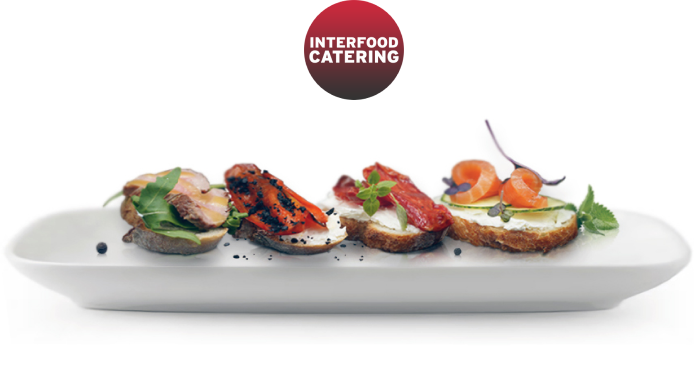
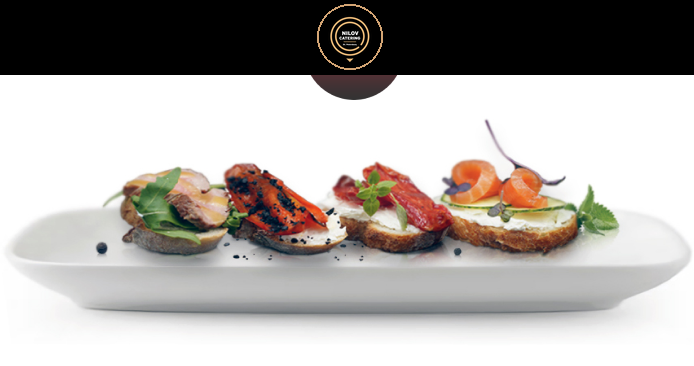
fix(c69-w1): фиксы волны критиков №1
- gg-showcase: удалён TiltedAccent «видео»; H2 color #fff инлайн (unlayered
  .ea-section-h2 перебивал text-white — тёмный на тёмном); alt перебрендирован
- founder-story: 4× Interfood → nilov catering (текст глав, alt, подпись)
- tott-parallax-band: «nilov catering · с 2007 года»
- faq/cep-process: «в рабочее время» → «отвечаем в любое время»
- tott-hero: коллизия ЛИСТАЙТЕ/eyebrow (bottom-12, translateY 40px),
  food-as-art marginTop 0.25rem (мобайл)
- cookie-banner: truncate убран (текст переносится на 390px)
- event-01.png: старый красный лого → новый бейдж с золотым кольцом

Changed region(s): [[0.0, 0.0, 1.0, 0.2104]]

diff --git a/src/components/catering/gg-video-showcase.tsx b/src/components/catering/gg-video-showcase.tsx
@@ -3,7 +3,6 @@
 import { useRef, useState } from "react";
 import { motion, useReducedMotion } from "framer-motion";
 import { useMounted } from "@/hooks/use-mounted";
-import { TiltedAccent } from "@/components/catering/tilted-accent";
 
 /**
  * GgVideoShowcase — Cycle 31, Task 4-C.
@@ -31,8 +30,8 @@ import { TiltedAccent } from "@/components/catering/tilted-accent";
  *      ├─ video.absolute.inset-0.h-full.w-full.object-cover (decorative, aria-hidden)
  *      ├─ div.absolute.inset-0 double scrim (radial pool behind the text
  *      │   column + linear to-top base — Task 4-B readability hardening)
- *      ├─ div.absolute.inset-0.flex (overlay content — bottom-left aligned, padded)
- *      │  ├─ TiltedAccent "видео" (-6° tilt, gamma signature)
+ *      ├─ div.absolute.inset-0.flex (overlay content — bottom-left aligned,
+ *      │  padded — W1-FIX: tilted accent "видео" removed)
  *      │  ├─ h2 "Кейтеринг как <i>искусство</i>" (Playfair Display, white, italic fragment red)
  *      │  ├─ p subtitle (white/85, max-w-2xl)
  *      │  └─ div flex gap-4 — 2 CTA pills ("Смотреть меню" → #menu, "Рассчитать стоимость" → #calculator)
@@ -129,7 +128,7 @@ export function GgVideoShowcase() {
         {!expanded && (
           <img
             src="/media/hero-premium/hero-premium-6.jpg"
-            alt="Банкетный зал Interfood: сервированный стол с блюдами высокой кухни"
+            alt="Банкетный зал nilov catering: сервированный стол с блюдами высокой кухни"
             loading="lazy"
             decoding="async"
             className="absolute inset-0 h-full w-full object-cover"
@@ -183,25 +182,21 @@ export function GgVideoShowcase() {
         {/* Editorial overlay — bottom-left aligned with breathing padding.
             z-10 so it sits above the gradient scrim. */}
         <div className="absolute inset-0 z-10 flex flex-col justify-end p-6 md:p-14 lg:p-20">
-          {/* Tilted handwritten accent — gamma signature -6° tilt, sits
-              as a small marginalia above the H2 (Task 4-B: eyebrow removed
-              at the owner's request). Inline drop-shadow keeps the red
-              script legible over the video. */}
-          <div
-            className="mb-6"
-            style={{ filter: "drop-shadow(0 2px 14px rgba(0, 0, 0, 0.45))" }}
-          >
-            <TiltedAccent text="видео" className="block" />
-          </div>
-
           {/* H2 — Playfair Display, white. The word "искусство" is wrapped
               in <i> per the EA signature italic-as-fragment device
               (globals.css `.ea-section-h2 i` colors it `var(--ea-red)`).
-              Task 4-B: text-shadow for contrast in motion. */}
+              Task 4-B: text-shadow for contrast in motion. W1-FIX: the
+              unlayered `.ea-section-h2` rule (color: var(--ea-ink)) beats
+              the layered Tailwind `text-white` utility — an inline
+              `color: "#fff"` (inline beats both) keeps the H2 white over
+              the dark video. */}
           <motion.h2
             {...reveal(0)}
             className="ea-section-h2 mb-8 mt-2 max-w-4xl text-white"
-            style={{ textShadow: "0 2px 24px rgba(0, 0, 0, 0.55)" }}
+            style={{
+              color: "#fff",
+              textShadow: "0 2px 24px rgba(0, 0, 0, 0.55)",
+            }}
           >
             Кейтеринг как <i>искусство</i>
           </motion.h2>

diff --git a/src/components/catering/ea-founder-story.tsx b/src/components/catering/ea-founder-story.tsx
@@ -116,7 +116,7 @@ const CHAPTERS = [
     // на мобиле до него доходили на ~85% прокрутки главы. Имя вплетено в
     // главу-2007 (факт: подпись и alt уже называют Дмитрия Нилова).
     // \u00A0 — имя не рвётся на переносе.
-    text: "Одна печка, три повара и съёмная кухня на Петроградской стороне. Так Дмитрий\u00A0Нилов начинал Interfood.",
+    text: "Одна печка, три повара и съёмная кухня на Петроградской стороне. Так Дмитрий\u00A0Нилов начинал nilov catering.",
   },
   {
     label: "Философия",
@@ -130,7 +130,7 @@ const CHAPTERS = [
     // «Берёмся за всё:» — единственная масс-маркет интонация секции,
     // заменена на сенсорную подачу (B1, факты те же); ведущее «Сегодня»
     // снято — оно уже в лейбле главы.
-    text: "Interfood накрывает стол и на\u00A0камерной свадьбе на\u00A020 гостей, и на приёме на\u00A01\u00A0500 персон — в исторических особняках города.",
+    text: "nilov catering накрывает стол и на\u00A0камерной свадьбе на\u00A020 гостей, и на приёме на\u00A01\u00A0500 персон — в исторических особняках города.",
   },
 ] as const;
 
@@ -444,7 +444,7 @@ export function EaFounderStory() {
                   <div className="efs__portrait-frame">
                     <Image
                       src="/media/c67/founder-portrait-v5.webp"
-                      alt="Дмитрий Нилов, основатель Interfood Catering, в фирменном фартуке на банкетной площадке"
+                      alt="Дмитрий Нилов, основатель nilov catering, в фирменном фартуке на банкетной площадке"
                       fill
                       /* 480px = кап .efs__portrait-pos (≥1280) → DPR2 ровно 960
                          device-px (натив источника); бакет 1080 — ближайший в
@@ -612,7 +612,7 @@ export function EaFounderStory() {
               {/* Роль живёт в eyebrow («Основатель · Шеф-повар») — в подписи
                   классическая форма: имя+бренд+город (дубль роли снят). */}
               <motion.p key={`role-${on}`} className="efs__sign-role" {...fadeUp(0.4)}>
-                Interfood Catering · Санкт-Петербург
+                nilov catering · Санкт-Петербург
               </motion.p>
             </div>
 

diff --git a/src/components/catering/tott-hero.tsx b/src/components/catering/tott-hero.tsx
@@ -110,7 +110,9 @@ export function TottHero() {
       <span className="tott-border-frame z-[3]" aria-hidden="true" />
 
       {/* CENTERED brand stack — per task v10: 3 lines, shifted DOWN for
-          better optical balance (translateY +60px instead of -40px), "food
+          better optical balance (W1-FIX: translateY +40px — при +60px на
+          1440×900 eyebrow «ЛУЧШИЙ КЕЙТЕРИНГ…» пересекался со scroll-cue
+          «ЛИСТАЙТЕ»; +40 + bottom-12 (было bottom-28) дают зазор ≥8px), "food
           as art" made larger, and the eyebrow label wraps cleanly on mobile
           ("Лучший кейтеринг" / "Санкт-Петербурга") via an explicit <br> that
           only shows on small screens (hidden sm:inline).
@@ -127,7 +129,7 @@ export function TottHero() {
                script pair.
           Text-shadow on white text for video-bg legibility. */}
       <motion.div
-        className="absolute inset-0 z-10 flex flex-col items-center justify-center px-6 text-center [transform:translateY(60px)]"
+        className="absolute inset-0 z-10 flex flex-col items-center justify-center px-6 text-center [transform:translateY(40px)]"
         initial={showStatic ? false : "hidden"}
         animate={showStatic ? undefined : "visible"}
         variants={container}
@@ -178,7 +180,10 @@ export function TottHero() {
           style={{
             fontSize: "clamp(2.25rem, 6vw, 4.5rem)",
             lineHeight: 1,
-            marginTop: "-0.5rem",
+            /* W1-FIX: -0.5rem давал пересечение line-box'ов «catering.» и
+               «food as art» на 8px @390×844 (замер критика); 0.25rem
+               даёт 4px зазор. */
+            marginTop: "0.25rem",
             textShadow: "0 2px 30px rgba(0,0,0,0.45)",
           }}
         >
@@ -221,9 +226,11 @@ export function TottHero() {
         </motion.p>
       </motion.div>
 
-      {/* Scroll cue bottom-center (sits above the docked nav). */}
+      {/* Scroll cue bottom-center (sits above the docked nav). W1-FIX:
+          bottom-12 (was bottom-28) — at 1440×900 the cue overlapped the
+          eyebrow label; measured gap after the fix ≥8px. */}
       <motion.div
-        className="absolute bottom-28 left-1/2 z-10 flex -translate-x-1/2 flex-col items-center gap-2"
+        className="absolute bottom-12 left-1/2 z-10 flex -translate-x-1/2 flex-col items-center gap-2"
         initial={showStatic ? false : { opacity: 0 }}
         animate={showStatic ? undefined : { opacity: 1, transition: { delay: 1.3, duration: 0.8 } }}
         aria-hidden="true"

diff --git a/src/components/catering/cep-process.tsx b/src/components/catering/cep-process.tsx
@@ -86,10 +86,10 @@ import { TiltedAccent } from "@/components/catering/tilted-accent";
 type Step = { num: string; verb: string; body: string };
 
 /**
- * SPEC c63 copy + wave-1 pass + wave-2 G (step-02 gains the page-verified
- * response scope — the Contact block promises «перезвоним в течение 15 минут
- * в рабочее время», so «в рабочее время» is fact, and the line stays ≤90
- * chars). \u00A0 (NBSP) binds the orphan pairs measured by the wave-2 critics
+ * SPEC c63 copy + wave-1 pass + wave-2 G (step-02: W1-FIX — «в рабочее
+ * время» убрано: Contact/FAQ-блоки теперь обещают «отвечаем в любое время»,
+ * формулировка «перезвоним сразу, как увидим заявку» не противоречит им).
+ * \u00A0 (NBSP) binds the orphan pairs measured by the wave-2 critics
  * (D): without them the last rendered line strands a lone word —
  * «предлагаем.» (02 @1024/1920), «и не было.» (04 @1920), «полночь.»
  * (01 @320), «празднике.» (03 @320).
@@ -99,7 +99,7 @@ const STEPS: Step[] = [
   {
     num: "02",
     verb: "Созвон",
-    body: "Разговор вместо анкеты: перезвоним в рабочее время — слушаем вас, уточняем,\u00A0предлагаем.",
+    body: "Разговор вместо анкеты: перезвоним сразу, как увидим заявку — слушаем вас, уточняем,\u00A0предлагаем.",
   },
   {
     num: "03",

diff --git a/src/components/catering/ea-cookie-banner.tsx b/src/components/catering/ea-cookie-banner.tsx
@@ -225,7 +225,7 @@ export function EaCookieBanner() {
         >
           <div className="mx-auto flex max-w-[1440px] flex-col items-start justify-between gap-1.5 px-3 py-2 sm:flex-row sm:items-center sm:gap-6 sm:px-6 sm:py-3 md:px-12">
             <p
-              className="m-0 max-w-[68ch] truncate text-[10.5px] leading-snug sm:truncate-none sm:text-[13px]"
+              className="m-0 max-w-[68ch] text-[10.5px] leading-snug sm:text-[13px]"
               style={{
                 fontFamily: "var(--ea-font-body)",
                 color: "color-mix(in srgb, var(--ea-cream) 85%, transparent)",

diff --git a/src/components/catering/ea-faq-accordion.tsx b/src/components/catering/ea-faq-accordion.tsx
@@ -215,7 +215,7 @@ export function EaFaqAccordion() {
           {...reveal(0.1)}
         >
           <span>
-            Не нашли свой вопрос? Напишите нам — ответим в течение 15 минут в рабочее время.
+            Не нашли свой вопрос? Напишите нам — отвечаем в любое время, обычно в течение 15 минут.
           </span>
           <a href="#contact" className="ea-text-link" style={{ fontSize: "0.85rem" }}>
             Задать вопрос

diff --git a/src/components/catering/tott-parallax-band.tsx b/src/components/catering/tott-parallax-band.tsx
@@ -226,7 +226,7 @@ export function TottParallaxBand() {
           className="tott-eyebrow mt-10 justify-center text-white/70"
           text={undefined}
         >
-          <span style={{ color: "var(--tott-olive)" }}>Interfood · с 2007 года</span>
+          <span style={{ color: "var(--tott-olive)" }}>nilov catering · с 2007 года</span>
         </TottReveal>
       </div>
     </section>
